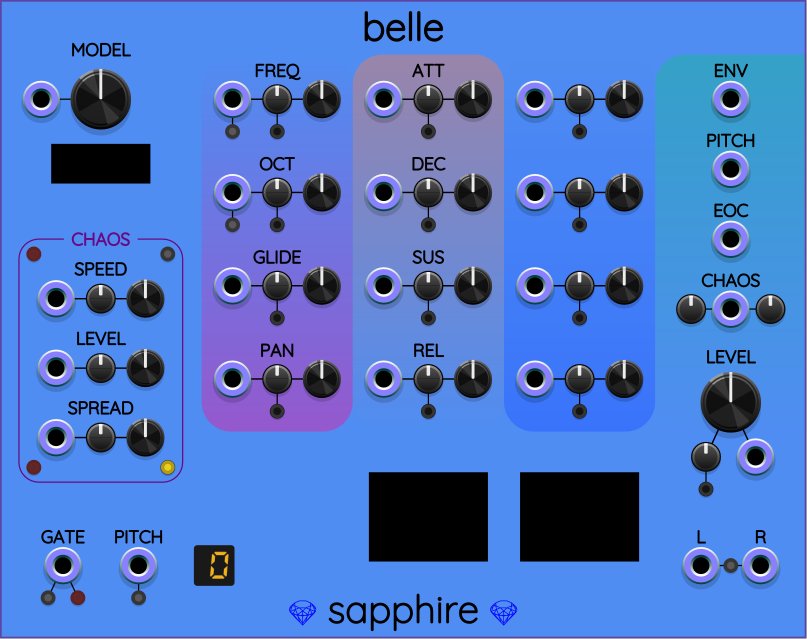
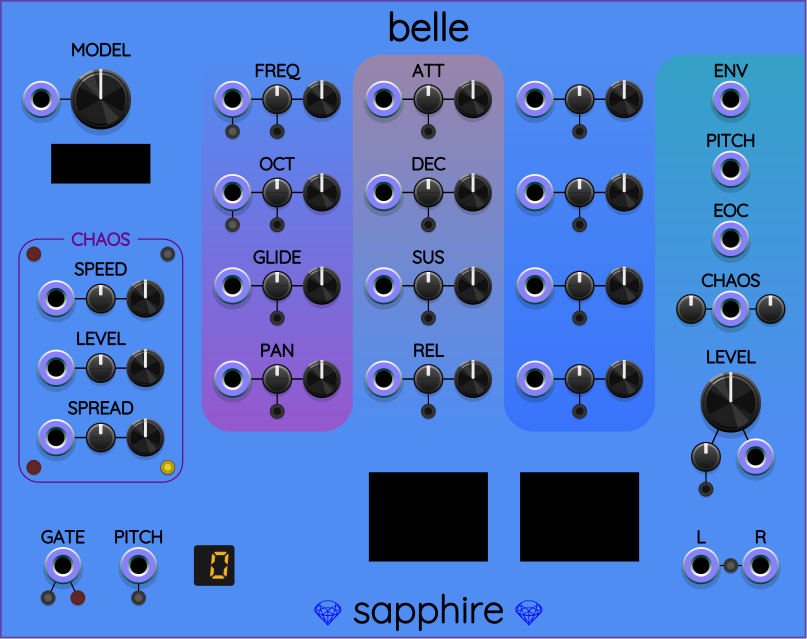
Belle panel: move module title and sapphire insignia right.
I moved the "belle" title at the top of the panel,
and the "* sapphire *" insignia at the bottom of the panel,
right so that they are centered with the envelope controls,
rather than over the panel as a whole.

Changed region(s): [[0.3408, 0.9218, 0.6815, 0.9812], [0.4337, 0.0, 0.5886, 0.0892]]

diff --git a/util/sapphire.py b/util/sapphire.py
@@ -68,7 +68,7 @@ def ModelNamePath(panel:Panel, font:Font, name:str, xAdjust:float = 0.0) -> Text
     return tp
 
 
-def SapphireInsignia(panel:Panel, font:Font) -> Element:
+def SapphireInsignia(panel:Panel, font:Font, xAdjust:float = 0.0) -> Element:
     '''Creates a bottom-centered Sapphire insignia with gemstones on either side.'''
     shrink = PANEL_HEIGHT_MM - panel.mmHeight
     insignia = Element('g', 'sapphire_insignia')
@@ -76,7 +76,7 @@ def SapphireInsignia(panel:Panel, font:Font) -> Element:
     gemY = 121.0 - shrink
     ti = TextItem('sapphire', font, BRAND_NAME_POINTS)
     (dx, dy) = ti.measure()
-    x1 = (panel.mmWidth - dx)/2
+    x1 = xAdjust + (panel.mmWidth - dx)/2
     y1 = panel.mmHeight - (dy + 0.5)
     brandTextPath = TextPath(ti, x1, y1, 'brand_name')
     brandTextPath.setAttrib('style', BRAND_NAME_STYLE)

diff --git a/util/make_sapphire_svg.py b/util/make_sapphire_svg.py
@@ -2927,8 +2927,9 @@ def GenerateBellePanel(cdict: ControlDict) -> int:
         controls.add('model_lower_right', x2_mod, y2_mod)
 
         pl.append(MakeBorder(target, BELLE_PANEL_WIDTH))
-        pl.append(ModelNamePath(panel, font, name))
-        pl.append(SapphireInsignia(panel, font))
+        dxCenter = xBelle(2) - panel.mmWidth/2
+        pl.append(ModelNamePath(panel, font, name, dxCenter))
+        pl.append(SapphireInsignia(panel, font, dxCenter))
         if rc := BelleEngineArtwork(defs, pl): return rc
         controls.add('model_select', xBelle(0), yBelle(0))
         pl.append(CenteredControlTextPath(font, 'MODEL', xBelle(0), yBelle(0) - dyTextBigKnob))
